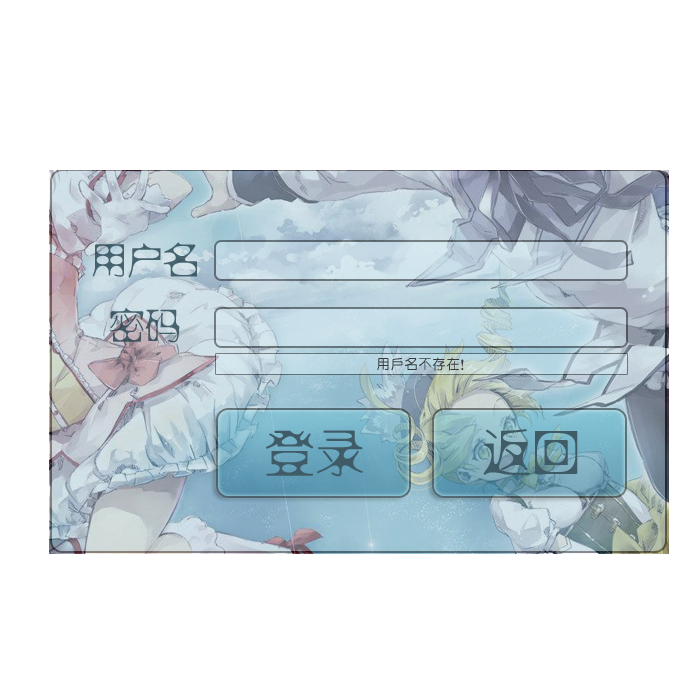
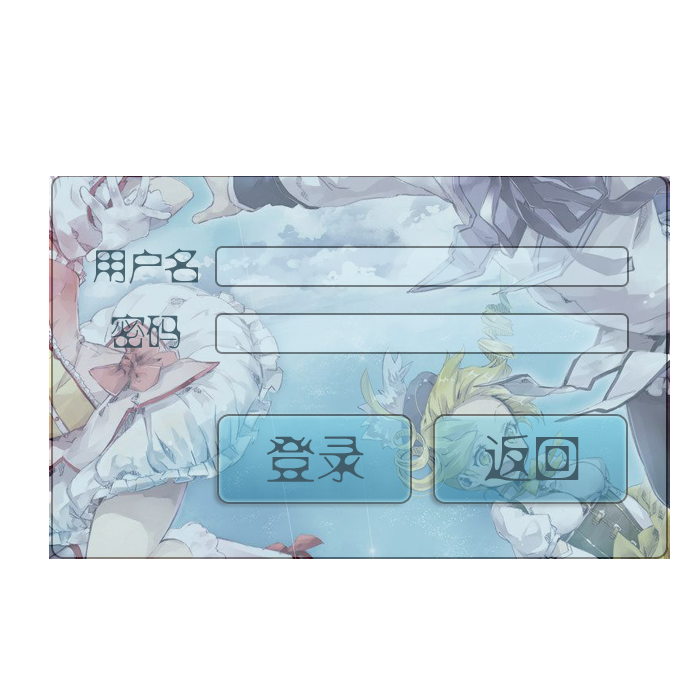
魔法少女注册登录

Changed region(s): [[0.06, 0.24, 0.96, 0.81]]

diff --git a/src/el/onetoone/ui/magicgirl/MagicLoginScene.java b/src/el/onetoone/ui/magicgirl/MagicLoginScene.java
@@ -2,6 +2,7 @@ package el.onetoone.ui.magicgirl;
 
 import el.onetoone.back.Config;
 import el.onetoone.ui.LoginScene;
+import el.onetoone.ui.Main;
 import javafx.scene.Parent;
 import javafx.scene.Scene;
 import javafx.scene.SceneAntialiasing;
@@ -10,6 +11,7 @@ import javafx.scene.image.ImageView;
 import javafx.scene.layout.GridPane;
 import javafx.scene.layout.Pane;
 import javafx.scene.paint.Paint;
+import javafx.scene.text.Font;
 import javafx.scene.text.Text;
 
 public class MagicLoginScene extends LoginScene {
@@ -68,9 +70,9 @@ public class MagicLoginScene extends LoginScene {
 		userNameField.setPrefSize(350, 45);
 		passwordField.setPrefSize(350, 45);
 		userNameField.setLayoutX(550);
-		userNameField.setLayoutY(375);
+		userNameField.setLayoutY(380);
 		passwordField.setLayoutX(550);
-		passwordField.setLayoutY(445);
+		passwordField.setLayoutY(450);
 		((Pane) getRoot()).getChildren().add(userNameField);
 		((Pane) getRoot()).getChildren().add(passwordField);
 
@@ -85,7 +87,12 @@ public class MagicLoginScene extends LoginScene {
 		((Pane) getRoot()).getChildren().add(returnButton);
 
 		wrongMessage.setLayoutX(650);
-		wrongMessage.setLayoutY(510);
+		wrongMessage.setLayoutY(530);
+		
+		Font font = Font.loadFont(Main.class.getResource("font/magic.ttf").toExternalForm(), 25);
+		wrongMessage.setFont(font);
+		userNameField.setFont(font);
+		
 		((Pane) getRoot()).getChildren().add(wrongMessage);
 		registerListener();
 	}

diff --git a/src/el/onetoone/ui/magicgirl/MagicRegisterScene.java b/src/el/onetoone/ui/magicgirl/MagicRegisterScene.java
@@ -1,6 +1,7 @@
 package el.onetoone.ui.magicgirl;
 
 import el.onetoone.back.Config;
+import el.onetoone.ui.Main;
 import el.onetoone.ui.RegisterScene;
 import javafx.scene.Parent;
 import javafx.scene.Scene;
@@ -9,6 +10,7 @@ import javafx.scene.image.Image;
 import javafx.scene.image.ImageView;
 import javafx.scene.layout.Pane;
 import javafx.scene.paint.Paint;
+import javafx.scene.text.Font;
 
 public class MagicRegisterScene extends RegisterScene {
 
@@ -86,6 +88,10 @@ public class MagicRegisterScene extends RegisterScene {
 		
 		wrongMessage.setLayoutX(690);
 		wrongMessage.setLayoutY(540);
+		
+		Font font = Font.loadFont(Main.class.getResource("font/magic.ttf").toExternalForm(), 25);
+		wrongMessage.setFont(font);
+		userName.setFont(font);
 		
 		((Pane) getRoot()).getChildren().add(userName);
 		((Pane) getRoot()).getChildren().add(passwordField);

diff --git a/src/el/onetoone/back/Config.java b/src/el/onetoone/back/Config.java
@@ -15,7 +15,7 @@ public class Config {
 	public static final int START_TIME = 60;
 	public static final int START_STEP = 2;
 	
-	public static Theme theme = new NarutoTheme();
+	public static Theme theme = new MagicGirlTheme();
 	
 	public static Theme getTheme() {
 		return Config.theme;
